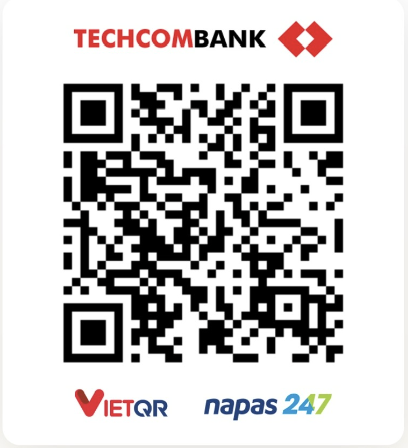
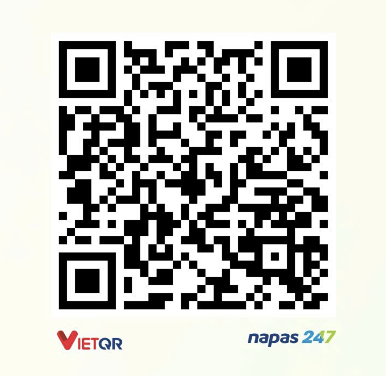
thêm thông tin cô dâu

diff --git a/index.html b/index.html
@@ -1474,8 +1474,6 @@
       <path d="M40 11 Q50 -4 60 11 Q70 26 80 11" />
     </svg>
     <h2 class="center" style="font-size:1.9rem; margin-bottom:.4rem;">Khoảnh khắc của chúng mình</h2>
-    <p class="center" style="font-size:.85rem; color:var(--ink-soft);">(thay các khung dưới đây bằng ảnh cưới thật của
-      bạn)</p>
     <div class="gallery" id="gallery">
       <div class="photo big" style="--r:-4deg;">
         <div class="photo-img"><img src="anh-1.jpg" alt="Ảnh cưới Thanh Minh &amp; Thanh Ngân" loading="lazy"></div>
@@ -1619,17 +1617,16 @@
       </div>
     </div>
     <div class="event-card">
-      <div class="event-row"><span>Lễ Vu Quy</span><span>09:00 — 15.11.2026</span></div>
-      <div class="event-row"><span>Tiệc chiêu đãi</span><span>18:00 — 15.11.2026</span></div>
-      <div class="event-row"><span>Địa điểm</span><span>Rosa Palace, Q.7, TP.HCM</span></div>
-      <div class="event-row"><span>Địa chỉ</span><span>123 Nguyễn Văn Linh</span></div>
+      <div class="event-row"><span>Lễ Vu Quy</span><span>15.11.2026</span></div>
+      <div class="event-row"><span>Tiệc chiêu đãi</span><span>15.11.2026</span></div>
+      <div class="event-row"><span>Địa điểm</span><span>Thôn 3, xã Đông Quan, Hưng Yên</span></div>
     </div>
-    <a class="mini-map" href="https://maps.app.goo.gl/maXMJWozXBZ9JH7f8" target="_blank" rel="noopener">
-      <img src="ban-do.png" alt="Bản đồ vị trí" style="display:block; width:100%; height:auto;">
+    <a class="mini-map" href="https://maps.app.goo.gl/xserDeT7vfMR6pYk6" target="_blank" rel="noopener">
+      <img src="map.png" alt="Bản đồ vị trí" style="display:block; width:100%; height:auto;">
       <span class="mm-label">📍 Chạm để mở Google Maps</span>
     </a>
     <div class="center">
-      <a class="map-btn" href="https://maps.app.goo.gl/maXMJWozXBZ9JH7f8" target="_blank" rel="noopener">Xem bản đồ</a>
+      <a class="map-btn" href="https://maps.app.goo.gl/xserDeT7vfMR6pYk6" target="_blank" rel="noopener">Xem bản đồ</a>
     </div>
   </section>
 
@@ -1701,14 +1698,13 @@
       <!-- Khung QR Code Mừng Cưới -->
       <div class="qr-card" style="margin-bottom:0.5rem;">
         <div class="qr-frame">
-          <img src="qr.png" alt="Mã QR Mừng Cưới" class="qr-img"
-            onerror="this.onerror=null; this.src='https://api.qrserver.com/v1/create-qr-code/?size=200x200&data=STK:19036868686868-Techcombank-NGUYEN+THANH+MINH';">
+          <img src="qr.png" alt="Mã QR Mừng Cưới" class="qr-img">
         </div>
         <div class="qr-bank-info">
-          <div class="qr-bank-name">Techcombank · NGUYEN THANH MINH</div>
+          <div class="qr-bank-name">Vietcombank · DANG THANH NGAN</div>
           <div class="qr-account-num">
-            <span>STK: <b>1103 8325 8426</b></span>
-            <button type="button" class="copy-btn" onclick="copyText('110383258426', this)">Sao chép STK</button>
+            <span>STK: <b>9878898451</b></span>
+            <button type="button" class="copy-btn" onclick="copyText('9878898451', this)">Sao chép STK</button>
           </div>
         </div>
       </div>
